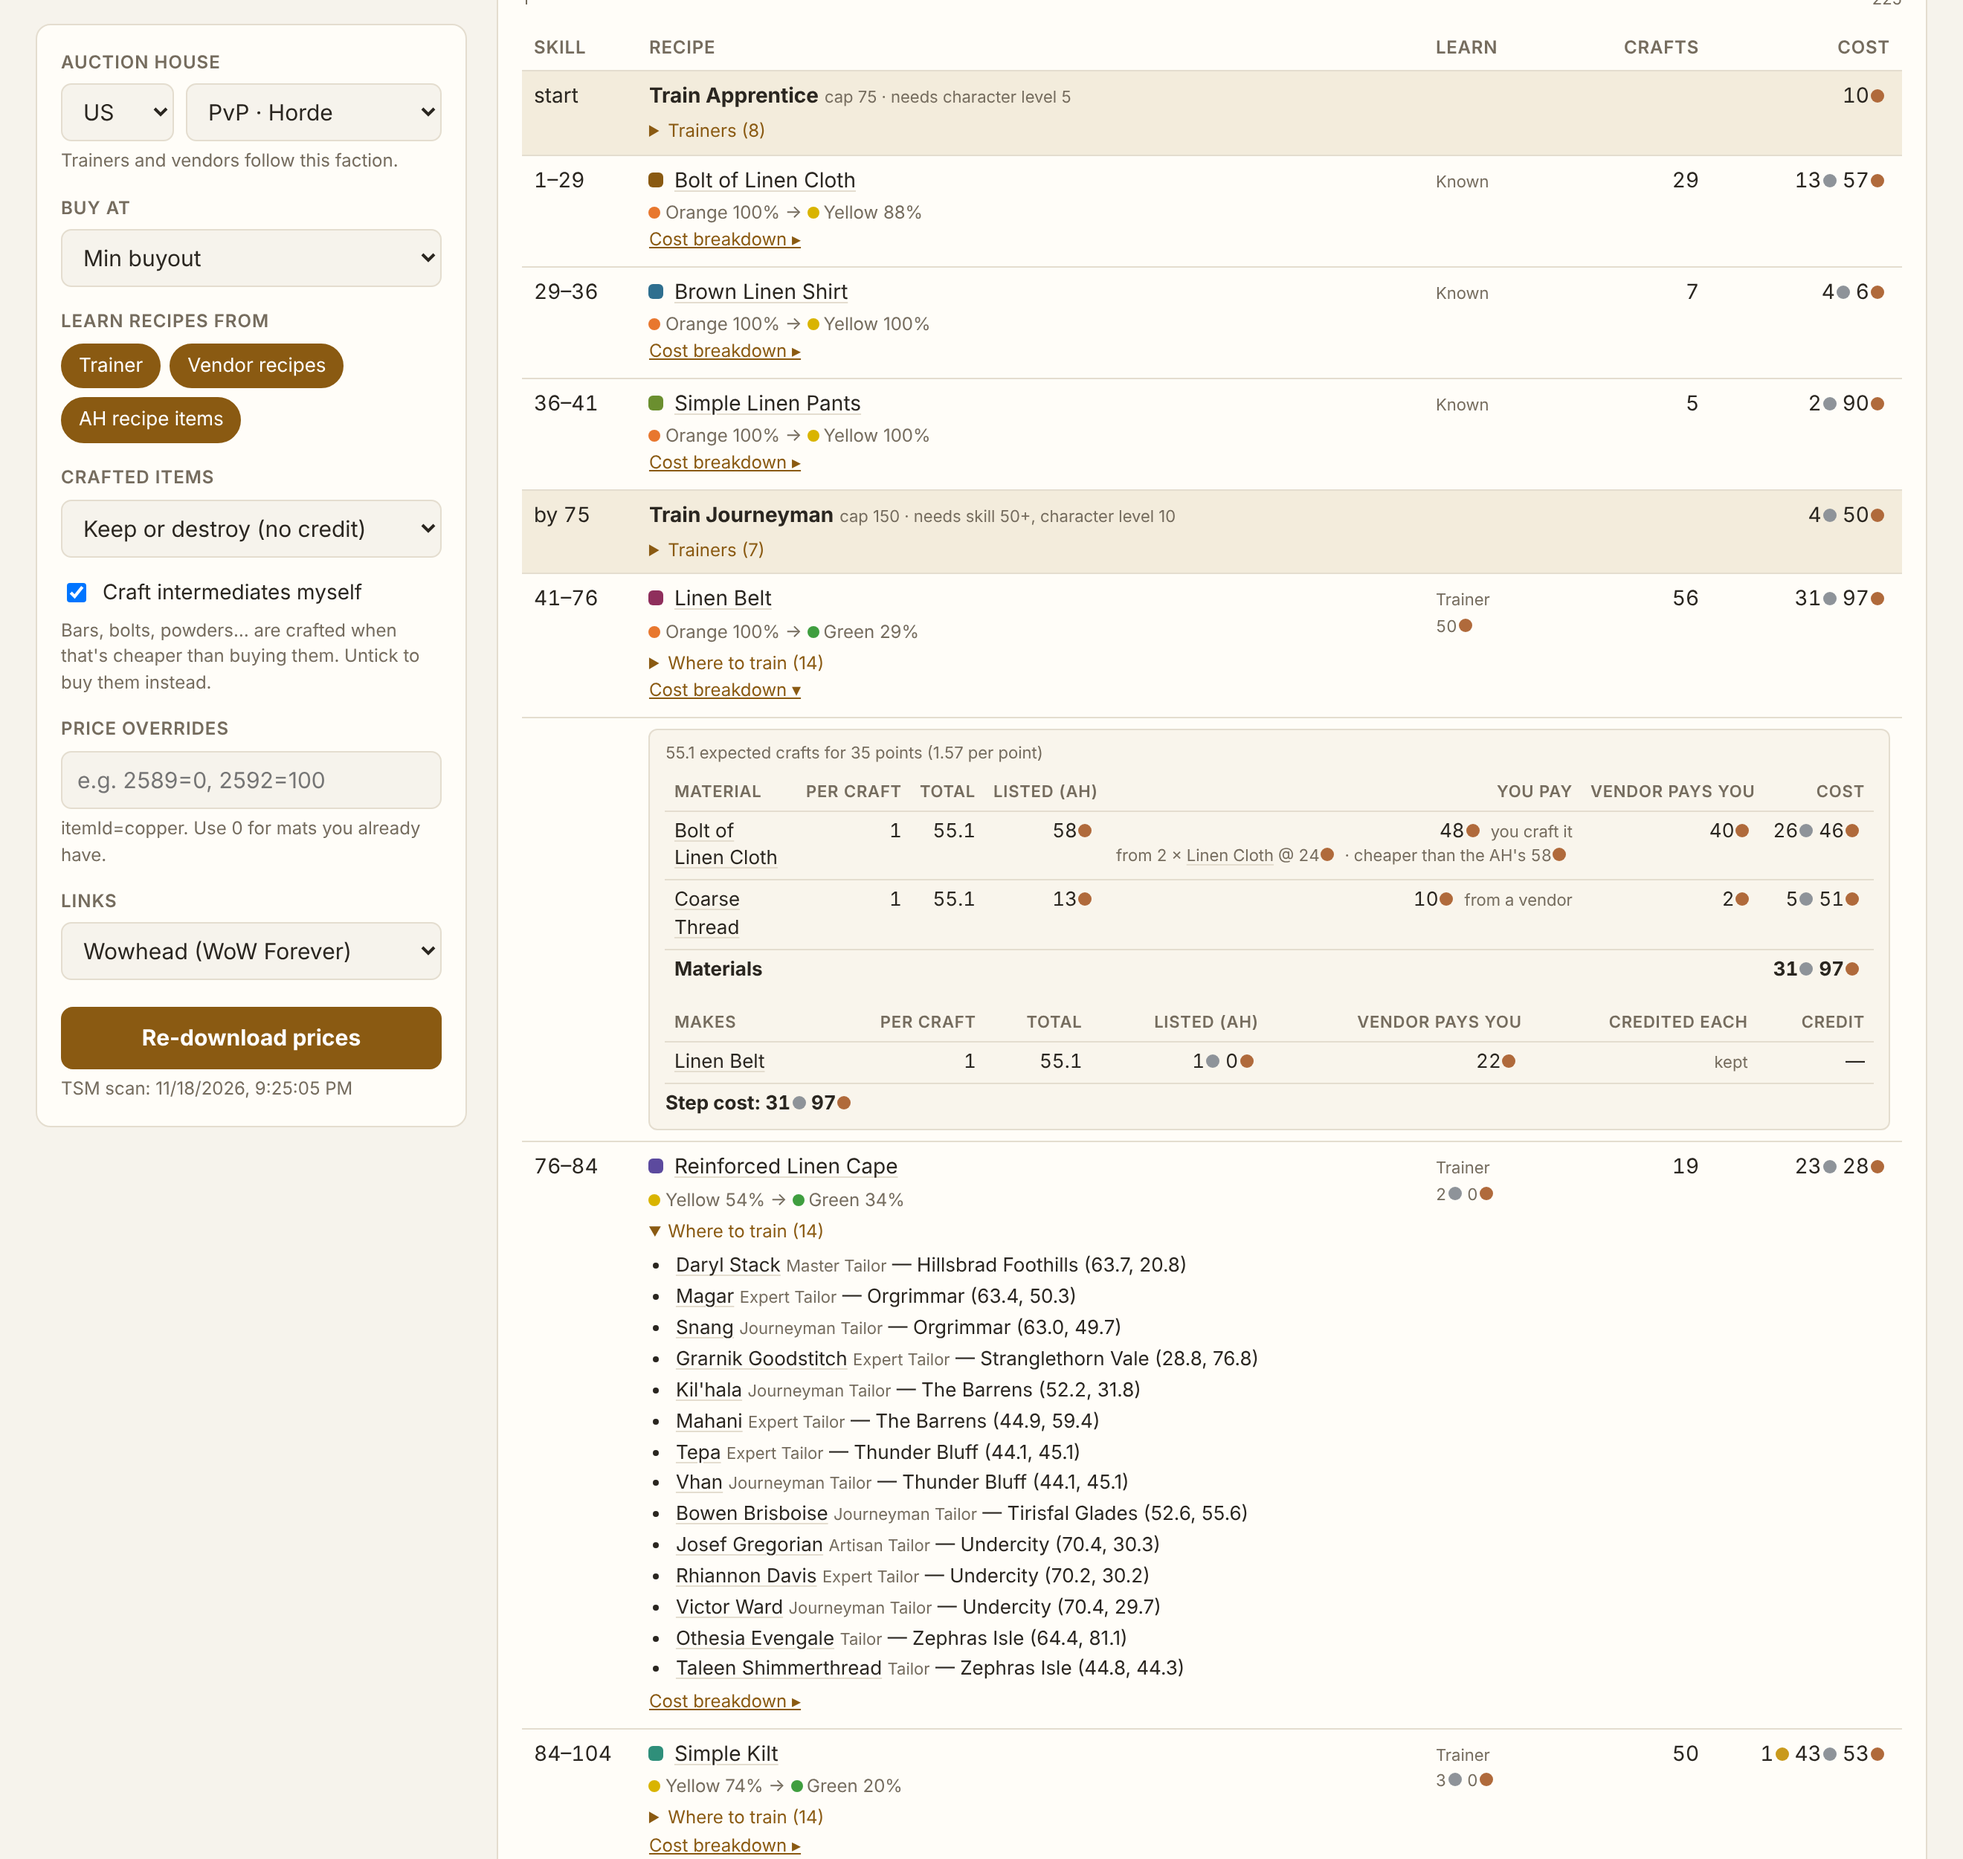
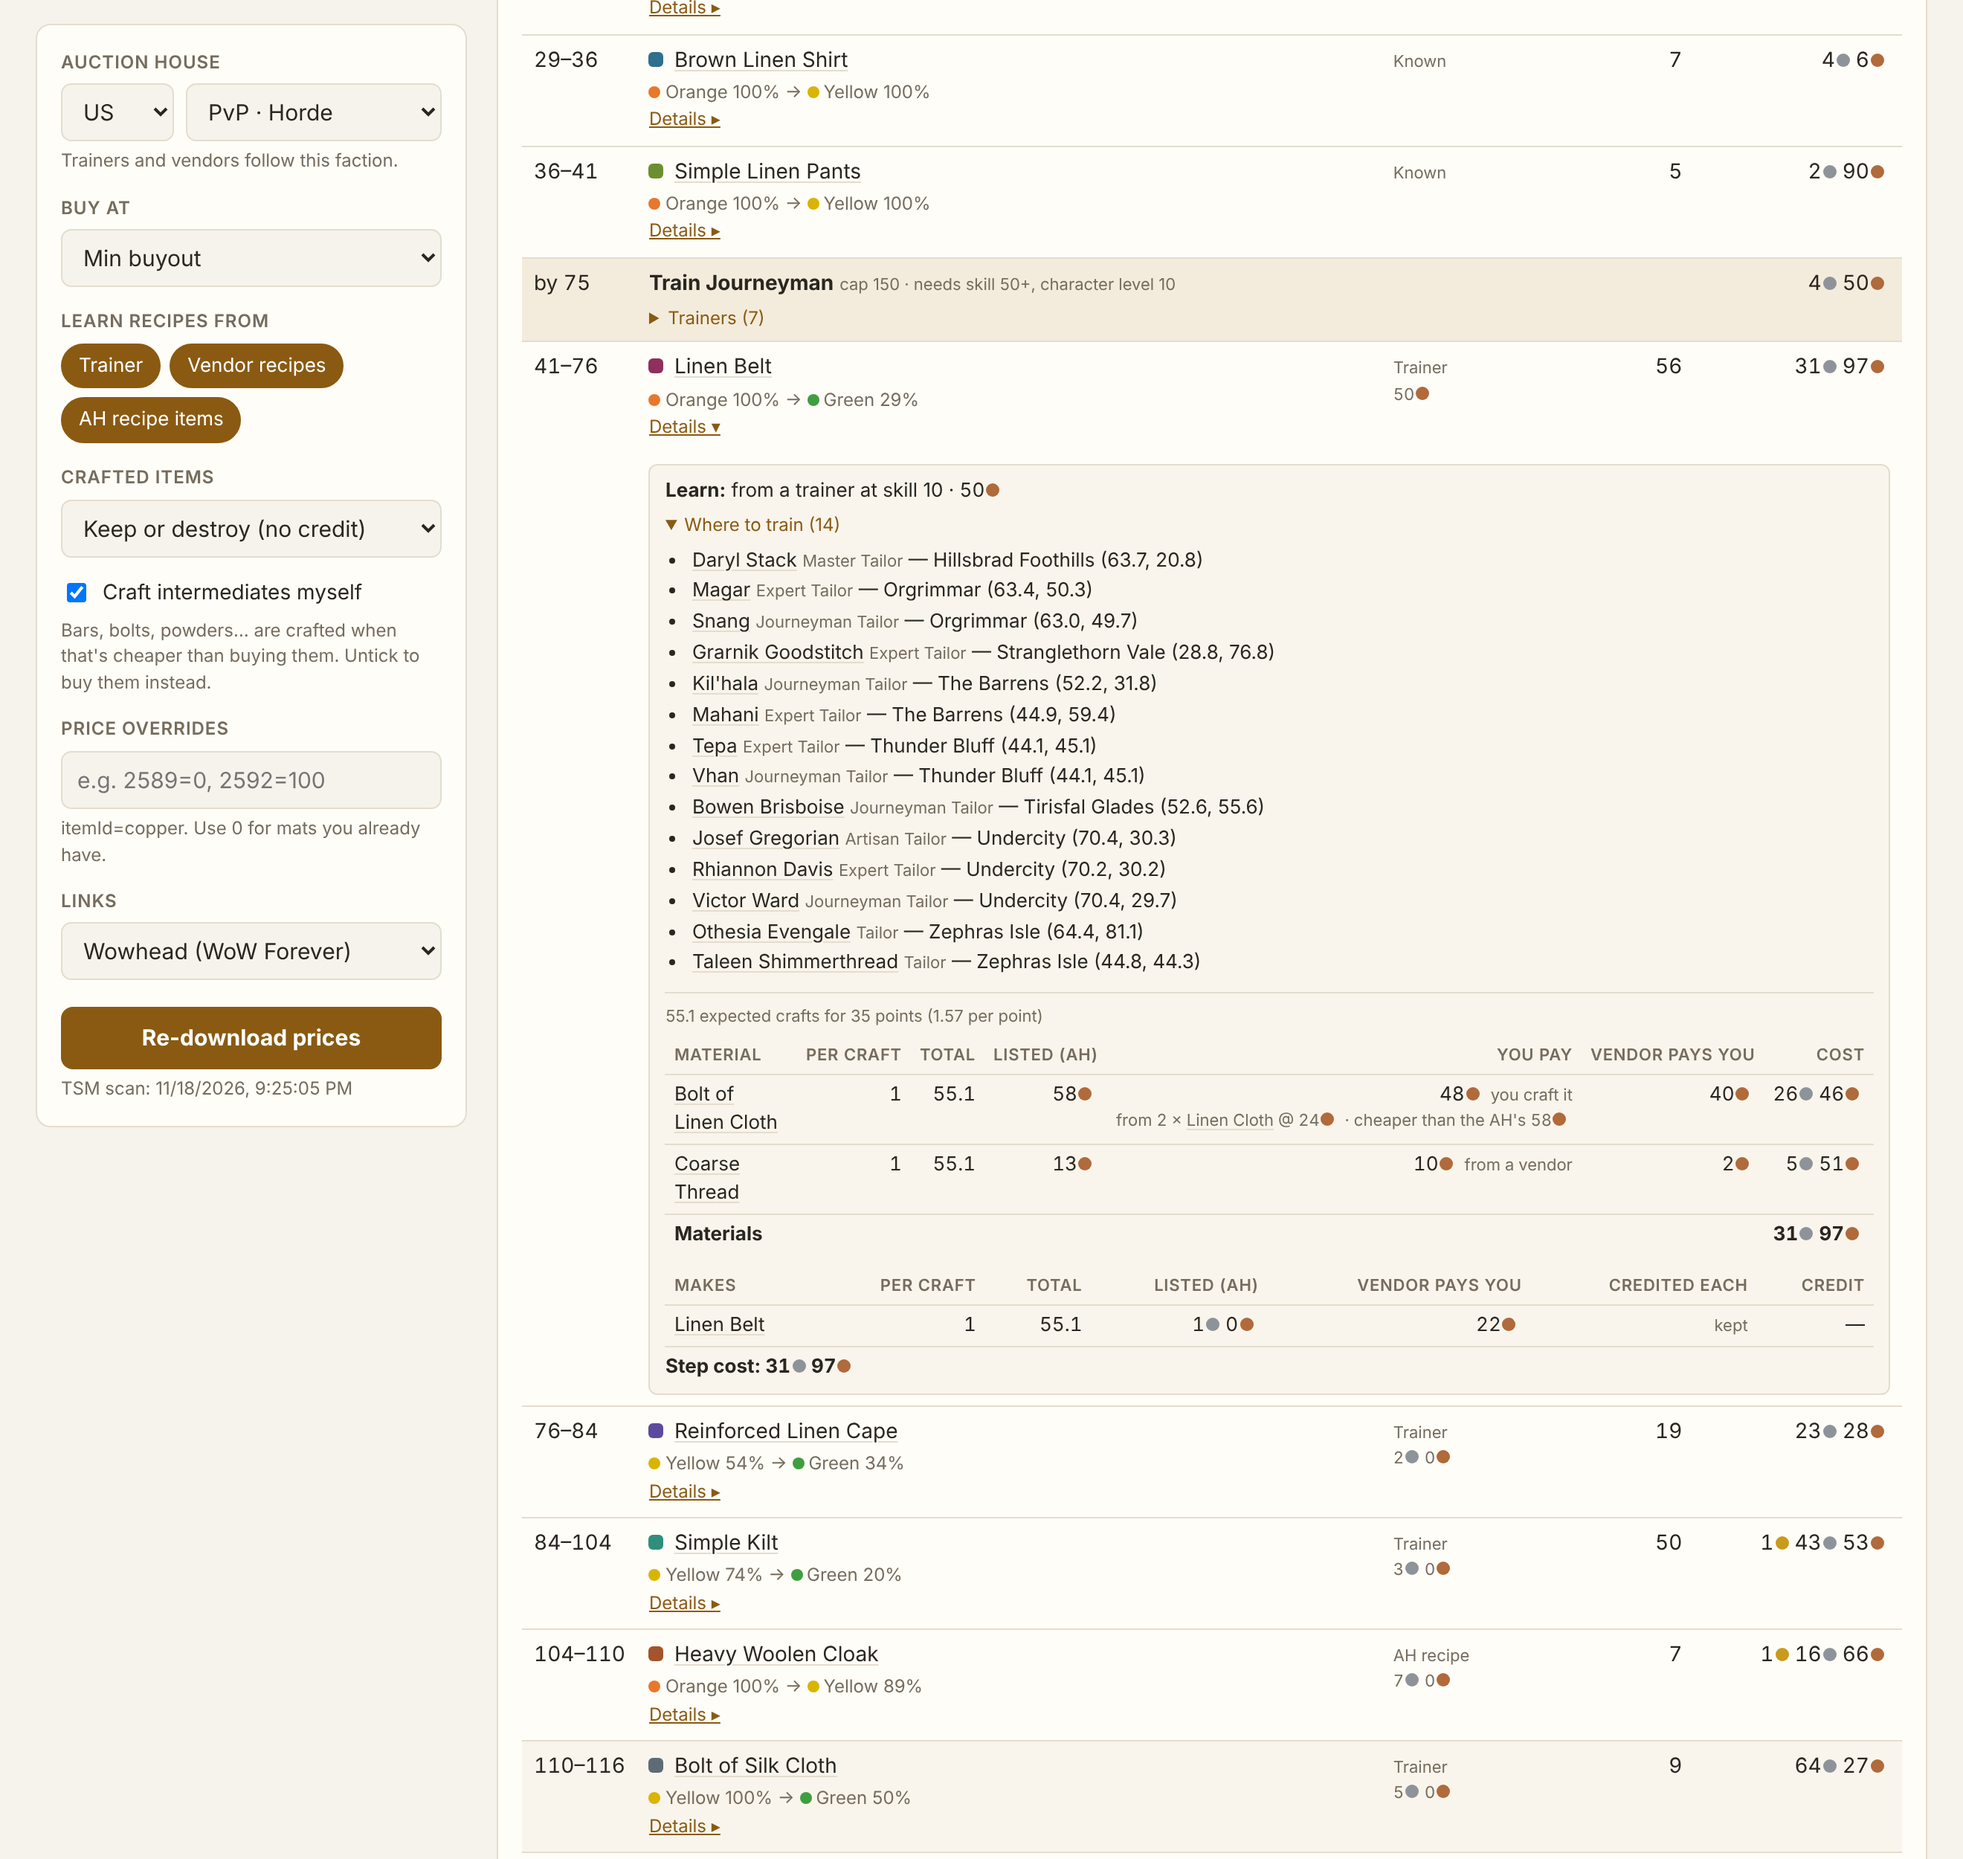
One click opens a route step's details, with where to train nested
Clicking a step row (or its Details button) opens one panel: how to
learn the recipe first (fee, with the trainer or vendor list nested),
then the materials and the item made. The recipe cell keeps only the
name and skill-up chance.

Claude-Session: https://claude.ai/code/session_01TMo8f5YZQR2pyn6DoGXvyF

diff --git a/cheapest_skillup/web/index.html b/cheapest_skillup/web/index.html
@@ -142,6 +142,11 @@ details.cost[open] { background: var(--panel-2); border: 1px solid var(--line); 
 .unseen { font-size: 11px; color: var(--muted); }
 .cost-body { background: var(--panel-2); border: 1px solid var(--line); border-radius: 6px; padding: 8px 10px; font-size: 13px; }
 tr.bd-row td { border-bottom: 1px solid var(--line); }
+tr.step { cursor: pointer; }
+tr.step:hover td { background: var(--panel-2); }
+tr.step[aria-expanded=true] td { border-bottom-color: transparent; }
+.learn-sec { padding-bottom: 8px; margin-bottom: 8px; border-bottom: 1px solid var(--line); }
+.learn-sec details.where { margin-left: 0; }
 @media (max-width: 600px) { tr.bd-row td:first-child { display: none; } tr.bd-row td { padding: 4px 0; } }
 ul.plain { margin: 0; padding-left: 18px; }
 .formula { font-size: 12px; color: var(--muted); background: var(--panel-2); border: 1px solid var(--line); border-radius: 6px; padding: 8px 10px; margin: 0 0 10px; }
@@ -553,11 +558,14 @@ function drawDetail(d) {
   $("#detail").querySelectorAll(".view").forEach(b => b.onclick = () => setView(b.dataset.v));
   $("#detail").querySelectorAll("[data-go]").forEach(b => b.onclick = () => setView(b.dataset.go));
   $("#view").innerHTML = VIEW === "materials" ? materialsView(p) : VIEW === "recipes" ? recipesView(p) : routeView(p, learnBy);
-  $("#view").querySelectorAll(".bd-toggle").forEach(b => b.onclick = () => {
-    const row = b.closest("tr").nextElementSibling;
+  // One click anywhere on a step (except its links) opens its details: how to learn it, then the costs.
+  $("#view").querySelectorAll("tr.step").forEach(tr => tr.onclick = e => {
+    if (e.target.closest("a, summary, input, select") || window.getSelection().toString()) return;
+    const row = tr.nextElementSibling, b = tr.querySelector(".bd-toggle");
     row.hidden = !row.hidden;
+    tr.setAttribute("aria-expanded", String(!row.hidden));
     b.setAttribute("aria-expanded", String(!row.hidden));
-    b.textContent = row.hidden ? "Cost breakdown ▸" : "Cost breakdown ▾";
+    b.textContent = row.hidden ? "Details ▸" : "Details ▾";
   });
 }
 
@@ -577,10 +585,23 @@ function madeFrom(m) {
   return `<div class="src">from ${m.made_from.map(x => `${qty(x.qty)} × ${wh("item", x.item_id, x.name)} @ ${money(x.unit_copper)}`).join(" + ")}${m.ah_copper != null ? ` · cheaper than the AH's ${money(m.ah_copper)}` : ""}</div>`;
 }
 
-function costBreakdown(s, p) {
+const feeText = l => l.cost_copper === null ? "fee unknown" : (l.fee_from === "classic" ? "~" : "") + money(l.cost_copper);
+
+function learnPanel(s, l, first) {
+  if (s.how === "auto") return `<div class="learn-sec"><b>Learn:</b> known when you learn the profession.</div>`;
+  if (!l) return "";
+  if (!first) return `<div class="learn-sec"><b>Learn:</b> already learned for an earlier step.</div>`;
+  let h = `<div class="learn-sec"><b>Learn:</b> `;
+  if (l.how === "trainer") h += `from a trainer at skill ${l.learn_level} · ${feeText(l)}${trainersHtml(l.trainers)}`;
+  else if (l.how === "vendor") h += `buy the recipe from a vendor · ${feeText(l)}${vendorsHtml(l.vendors)}`;
+  else h += `buy ${l.recipe_items.map(i => wh("item", i.item_id, i.name)).join(" / ")} on the AH · ${feeText(l)}`;
+  return h + `</div>`;
+}
+
+function costBreakdown(s, p, learn = "") {
   const crafts = s.expected_crafts;
   const matTotal = s.materials.reduce((a, m) => a + (m.unit_copper ?? 0) * m.total, 0);
-  let h = `<div class="cost-body">
+  let h = `<div class="cost-body">${learn}
     <div class="src">${qty(crafts)} expected crafts for ${s.to - s.from} points (${(crafts / (s.to - s.from)).toFixed(2)} per point)</div>
     <div class="table-wrap"><table class="mini"><thead><tr><th>Material</th><th class="num">Per craft</th><th class="num">Total</th><th class="num">Listed (AH)</th><th class="num">You pay</th><th class="num">Vendor pays you</th><th class="num">Cost</th></tr></thead><tbody>` +
     s.materials.map(m => `<tr><td>${wh("item", m.item_id, m.name)}</td><td class="num">${qty(m.per_craft)}</td><td class="num">${qty(m.total)}</td>
@@ -620,19 +641,13 @@ function routeView(p, learnBy) {
     const l = learnBy[s.recipe];
     const first = !seen.has(s.recipe); seen.add(s.recipe);
     let learn = `<span class="src">${esc(HOW[s.how] || s.how)}</span>`;
-    let extra = "";
-    if (first && l) {
-      learn += `<div class="src">${l.cost_copper === null ? "fee unknown" : (l.fee_from === "classic" ? "~" : "") + money(l.cost_copper)}</div>`;
-      if (l.how === "trainer") extra = trainersHtml(l.trainers);
-      else if (l.how === "vendor") extra = vendorsHtml(l.vendors);
-      else if (l.how === "recipe") extra = `<div class="src">Buy ${l.recipe_items.map(i => wh("item", i.item_id, i.name)).join(" / ")} on the AH</div>`;
-    }
+    if (first && l) learn += `<div class="src">${feeText(l)}</div>`;
     const low = s.low_chance ? `<span class="badge" title="About ${s.crafts_per_point.toFixed(1)} crafts per skill point">low chance</span>` : "";
-    h += `<tr><td class="money">${s.from}–${s.to}</td>
-      <td><span class="sw" style="background:${colors[s.recipe]}"></span>${wh("spell", s.spell, s.recipe)}${low}${chanceHtml(s)}${extra}
-        <button type="button" class="linkish bd-toggle" aria-expanded="false">Cost breakdown ▸</button></td>
+    h += `<tr class="step" aria-expanded="false"><td class="money">${s.from}–${s.to}</td>
+      <td><span class="sw" style="background:${colors[s.recipe]}"></span>${wh("spell", s.spell, s.recipe)}${low}${chanceHtml(s)}
+        <button type="button" class="linkish bd-toggle" aria-expanded="false">Details ▸</button></td>
       <td class="lc">${learn}</td><td class="num">${ceil(s.expected_crafts)}</td><td class="num">${money(s.cost_copper)}</td></tr>
-      <tr class="bd-row" hidden><td></td><td colspan="4">${costBreakdown(s, p)}</td></tr>`;
+      <tr class="bd-row" hidden><td></td><td colspan="4">${costBreakdown(s, p, learnPanel(s, l, first))}</td></tr>`;
   }
   for (const r of pending) h += rankRow(r);
   return h + `</tbody></table></div>`;

diff --git a/README.md b/README.md
@@ -54,7 +54,9 @@ A cost strip follows, then three views:
 * **Route:** the recipe to craft for each stretch of skill, with how many crafts and what they cost.
   * Each step shows its colour and skill-up chance at the start and end (for example
     *Orange 100% → Green 26%*).
-  * **Cost breakdown** opens each step's materials: per craft and in total, the AH listing, what you
+  * **Click a step** (or its *Details*) to open everything about it in one panel. It starts with how to
+    learn the recipe (fee, and a nested *Where to train* / *Where to buy* list), then the step's
+    materials: per craft and in total, the AH listing, what you
     pay and where, and **what a vendor pays you** for it. It also shows the item made, with its AH
     listing, what a vendor pays you for it, and any sell-back credit.
   * Rank rows (*Train Journeyman*, *Learn Expert*, *Quest for Artisan*) appear where you hit each cap,
